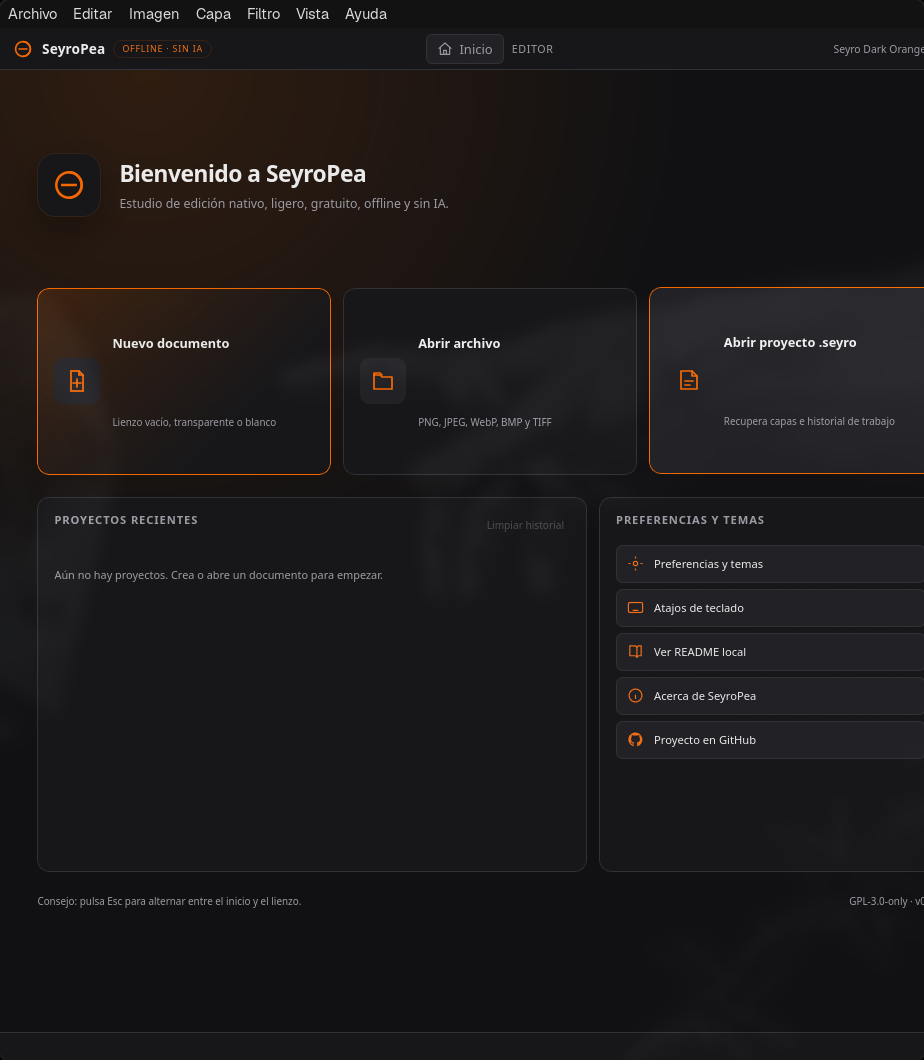
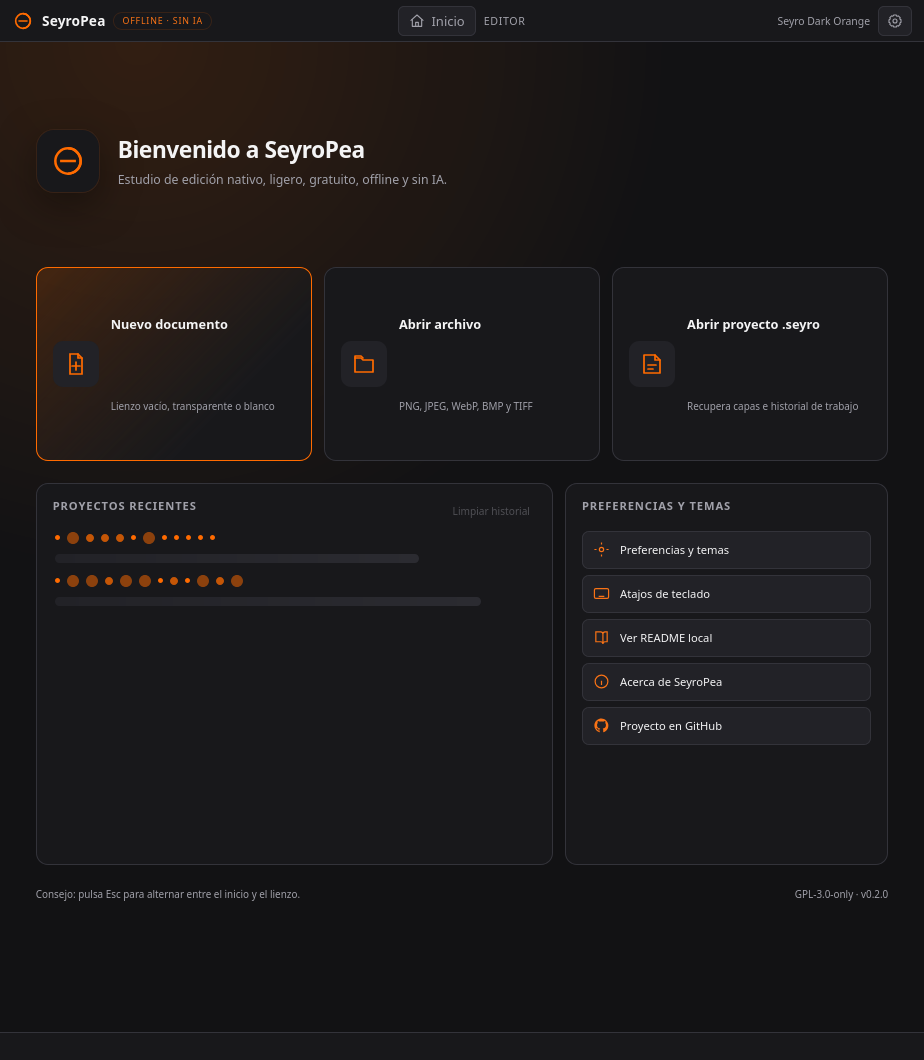
docs(site): publicar landing page y actualizar capturas v0.2.0
Añade sitio estático en docs/ para GitHub Pages con descargas, características y capturas nuevas del editor y welcome; README enlaza la web y el release.

diff --git a/docs/index.html b/docs/index.html
@@ -1,0 +1,256 @@
+<!doctype html>
+<html lang="es">
+<head>
+  <meta charset="utf-8">
+  <meta name="viewport" content="width=device-width, initial-scale=1">
+  <title>SeyroPea — Editor de imágenes nativo, ligero, gratuito y offline</title>
+  <meta name="description" content="SeyroPea v0.2.0: estudio de edición de imágenes de escritorio con Tauri v2 y Canvas2D. Capas, filtros deterministas, temas, formato .seyro y 100% offline, sin IA generativa.">
+  <meta name="theme-color" content="#16161a">
+  <meta property="og:title" content="SeyroPea v0.2.0">
+  <meta property="og:description" content="Editor de imágenes de escritorio nativo, ligero, gratuito, offline y sin IA.">
+  <meta property="og:image" content="screenshots/01-editor-principal.png">
+  <style>
+    :root {
+      --bg: #101013;
+      --surface: #17171c;
+      --surface-alt: #1e1e24;
+      --border: #2c2c34;
+      --text: #f5f1ea;
+      --muted: #a9a5a0;
+      --accent: #ff8a1f;
+      --accent-strong: #f97316;
+      --leaf: #7bc86c;
+      --radius: 14px;
+      --shadow: 0 18px 50px rgba(0, 0, 0, .35);
+    }
+    *, *::before, *::after { box-sizing: border-box; }
+    html { scroll-behavior: smooth; }
+    body {
+      margin: 0;
+      background: var(--bg);
+      color: var(--text);
+      font-family: system-ui, -apple-system, "Segoe UI", Roboto, sans-serif;
+      line-height: 1.6;
+      -webkit-font-smoothing: antialiased;
+    }
+    a { color: var(--accent); text-decoration: none; }
+    a:hover { text-decoration: underline; }
+    img { max-width: 100%; height: auto; display: block; }
+    .wrap { width: min(1120px, calc(100% - 40px)); margin: 0 auto; }
+    .site-header {
+      position: sticky; top: 0; z-index: 10;
+      background: rgba(16, 16, 19, .92);
+      backdrop-filter: blur(12px);
+      border-bottom: 1px solid var(--border);
+    }
+    .site-header .wrap { display: flex; align-items: center; justify-content: space-between; gap: 20px; min-height: 68px; }
+    .brand { display: flex; align-items: center; gap: 10px; color: var(--text); font-weight: 700; letter-spacing: .02em; }
+    .brand:hover { text-decoration: none; }
+    .brand svg { width: 34px; height: 34px; border-radius: 9px; }
+    .nav { display: flex; align-items: center; gap: 22px; flex-wrap: wrap; }
+    .nav a { color: var(--muted); font-size: .94rem; }
+    .nav a:hover { color: var(--text); text-decoration: none; }
+    .nav .cta-nav {
+      padding: 8px 15px; border-radius: 999px; background: var(--accent); color: #1a1207;
+      font-weight: 700; border: 1px solid var(--accent-strong);
+    }
+    .nav .cta-nav:hover { background: #ffa348; color: #1a1207; text-decoration: none; }
+    .hero { padding: 88px 0 56px; text-align: center; }
+    .eyebrow {
+      display: inline-block; padding: 6px 13px; border-radius: 999px;
+      border: 1px solid var(--border); background: var(--surface);
+      color: var(--muted); font-size: .82rem; letter-spacing: .08em; text-transform: uppercase;
+    }
+    .hero h1 {
+      margin: 20px 0 12px; font-size: clamp(2.4rem, 6vw, 4.2rem); line-height: 1.08;
+      letter-spacing: -.04em;
+    }
+    .hero h1 span { color: var(--accent); }
+    .hero p.lead { max-width: 720px; margin: 0 auto; color: var(--muted); font-size: 1.12rem; }
+    .badges { display: flex; flex-wrap: wrap; justify-content: center; gap: 9px; margin: 26px 0 30px; }
+    .badge {
+      padding: 5px 11px; border-radius: 7px; border: 1px solid var(--border);
+      background: var(--surface-alt); color: var(--muted); font-size: .8rem; font-weight: 600;
+    }
+    .badge.green { color: var(--leaf); border-color: #35523a; }
+    .actions { display: flex; flex-wrap: wrap; justify-content: center; gap: 12px; }
+    .button {
+      display: inline-flex; align-items: center; justify-content: center; gap: 8px;
+      padding: 12px 21px; border-radius: 10px; border: 1px solid var(--border);
+      background: var(--surface-alt); color: var(--text); font-weight: 650; font-size: .95rem;
+    }
+    .button:hover { text-decoration: none; border-color: var(--accent); }
+    .button.primary { background: var(--accent); color: #1a1207; border-color: var(--accent-strong); }
+    .button.primary:hover { background: #ffa348; color: #1a1207; }
+    section { padding: 54px 0; }
+    section + section { border-top: 1px solid var(--border); }
+    h2 { margin: 0 0 10px; font-size: clamp(1.6rem, 3vw, 2.2rem); letter-spacing: -.025em; }
+    .section-intro { margin: 0 0 28px; color: var(--muted); max-width: 720px; }
+    .grid { display: grid; gap: 16px; }
+    .features { grid-template-columns: repeat(auto-fit, minmax(240px, 1fr)); }
+    .card {
+      padding: 22px; border: 1px solid var(--border); border-radius: var(--radius);
+      background: var(--surface); box-shadow: 0 8px 24px rgba(0, 0, 0, .12);
+    }
+    .card h3 { margin: 0 0 6px; font-size: 1.04rem; }
+    .card p { margin: 0; color: var(--muted); font-size: .93rem; }
+    .card .icon { font-size: 1.4rem; color: var(--accent); line-height: 1; }
+    .shots { display: grid; grid-template-columns: repeat(auto-fit, minmax(280px, 1fr)); gap: 20px; align-items: start; }
+    figure { margin: 0; }
+    figure .frame {
+      border: 1px solid var(--border); border-radius: var(--radius); overflow: hidden;
+      background: var(--surface); box-shadow: var(--shadow);
+    }
+    figure img { width: 100%; }
+    figcaption { margin-top: 10px; color: var(--muted); font-size: .9rem; text-align: center; }
+    .split { display: grid; grid-template-columns: repeat(auto-fit, minmax(280px, 1fr)); gap: 22px; }
+    .list { margin: 14px 0 0; padding-left: 20px; color: var(--muted); }
+    .list li + li { margin-top: 7px; }
+    code {
+      background: var(--surface-alt); border: 1px solid var(--border);
+      border-radius: 5px; padding: 1px 6px; font-size: .88em;
+    }
+    .platforms { grid-template-columns: repeat(auto-fit, minmax(210px, 1fr)); }
+    .platform strong { display: block; margin-bottom: 4px; }
+    .platform span { color: var(--muted); font-size: .9rem; }
+    footer {
+      border-top: 1px solid var(--border); padding: 28px 0 40px;
+      color: var(--muted); font-size: .88rem;
+    }
+    footer .wrap { display: flex; flex-wrap: wrap; justify-content: space-between; gap: 14px; }
+    @media (max-width: 640px) {
+      .site-header .wrap { flex-direction: column; align-items: flex-start; padding: 12px 0; }
+      .nav { gap: 14px; }
+      .hero { padding-top: 54px; }
+    }
+  </style>
+</head>
+<body>
+  <header class="site-header">
+    <div class="wrap">
+      <a class="brand" href="#top" aria-label="SeyroPea, ir al inicio">
+        <svg xmlns="http://www.w3.org/2000/svg" viewBox="0 0 1024 1024" aria-hidden="true">
+          <defs>
+            <linearGradient id="lg-bg" x1="0" y1="0" x2="1" y2="1"><stop offset="0" stop-color="#222227"/><stop offset="1" stop-color="#121214"/></linearGradient>
+            <linearGradient id="lg-accent" x1="0" y1="0" x2="1" y2="1"><stop offset="0" stop-color="#ff8a1f"/><stop offset="1" stop-color="#f97316"/></linearGradient>
+            <linearGradient id="lg-leaf" x1="0" y1="1" x2="1" y2="0"><stop offset="0" stop-color="#3f9142"/><stop offset="1" stop-color="#7bc86c"/></linearGradient>
+          </defs>
+          <rect x="24" y="24" width="976" height="976" rx="216" fill="url(#lg-bg)"/>
+          <path d="M726 290c-42-52-108-78-190-78-126 0-209 62-209 154 0 76 55 118 176 143 104 21 127 40 127 74 0 43-45 68-118 68-77 0-139-28-184-79l-91 87c62 74 154 115 271 115 139 0 228-65 228-169 0-84-58-125-185-151-110-23-132-37-132-67 0-35 38-55 99-55 58 0 105 20 141 57z" fill="url(#lg-accent)"/>
+          <circle cx="764" cy="246" r="40" fill="url(#lg-leaf)"/>
+        </svg>
+        SeyroPea
+      </a>
+      <nav class="nav" aria-label="Navegación principal">
+        <a href="#caracteristicas">Características</a>
+        <a href="#capturas">Capturas</a>
+        <a href="#descargas">Descargas</a>
+        <a href="https://github.com/vDaiki-dev/seyropea">GitHub</a>
+        <a class="cta-nav" href="https://github.com/vDaiki-dev/seyropea/releases/tag/v0.2.0">Descargar v0.2.0</a>
+      </nav>
+    </div>
+  </header>
+
+  <main id="top">
+    <div class="wrap">
+      <div class="hero">
+        <span class="eyebrow">Lanzamiento v0.2.0 · 25 de noviembre de 2026</span>
+        <h1>Edita imágenes <span>sin depender de nadie.</span></h1>
+        <p class="lead">SeyroPea es un estudio de edición de imágenes de escritorio: nativo, ligero, gratuito y 100% offline. Construido con Tauri v2 y Canvas2D puro, sin frameworks en runtime ni modelos generativos.</p>
+        <div class="badges">
+          <span class="badge">Tauri v2 + Rust</span>
+          <span class="badge">Canvas2D</span>
+          <span class="badge green">100% offline</span>
+          <span class="badge green">Sin IA generativa</span>
+          <span class="badge">GPL-3.0-only</span>
+          <span class="badge">Linux · Windows · macOS</span>
+        </div>
+        <div class="actions">
+          <a class="button primary" href="https://github.com/vDaiki-dev/seyropea/releases/tag/v0.2.0">Descargar v0.2.0</a>
+          <a class="button" href="https://github.com/vDaiki-dev/seyropea">Ver código en GitHub</a>
+          <a class="button" href="https://github.com/vDaiki-dev/seyropea/blob/main/README.md">Leer documentación</a>
+        </div>
+      </div>
+    </div>
+
+    <section id="caracteristicas">
+      <div class="wrap">
+        <h2>Un editor completo, sin peso innecesario</h2>
+        <p class="section-intro">Todo el procesamiento es algorítmico y determinista sobre buffers RGBA. Sin cuentas, sin telemetría, sin CDNs y sin fuentes remotas.</p>
+        <div class="grid features">
+          <article class="card"><div class="icon">▣</div><h3>Capas y composición</h3><p>15 modos de fusión, opacidad, visibilidad, bloqueo, duplicado y reordenación con historial reversible.</p></article>
+          <article class="card"><div class="icon">◇</div><h3>14 herramientas</h3><p>Mover, transformar, marco, lazo, varita, recorte, cuentagotas, pincel, borrador, cubeta, texto, formas, mano y zoom.</p></article>
+          <article class="card"><div class="icon">◈</div><h3>Cubeta inteligente</h3><p>Relleno contiguo con tolerancia, capa activa o capas visibles y Undo/Redo integrados (atajo <code>G</code>).</p></article>
+          <article class="card"><div class="icon">◐</div><h3>Filtros deterministas</h3><p>18 filtros y ajustes tonales con vista previa y comparación antes de aplicar.</p></article>
+          <article class="card"><div class="icon">◧</div><h3>Formato <code>.seyro</code></h3><p>Manifiesto JSON y capas RGBA8 comprimidas con DEFLATE, con validación y límites estrictos.</p></article>
+          <article class="card"><div class="icon">◍</div><h3>Temas e idiomas</h3><p>Seyro Dark Orange, Dracula y Tokyo Night, wallpaper → paleta, 10 idiomas persistentes y fuentes del sistema.</p></article>
+          <article class="card"><div class="icon">◉</div><h3>Componentes reutilizables</h3><p><code>Toast</code>, <code>Modal</code>, <code>Tooltip</code>, <code>Badge</code> y un <code>SkeletonLoader</code> theme-aware inspirado en DIVAE.</p></article>
+          <article class="card"><div class="icon">◈</div><h3>Frontera endurecida</h3><p>Rutas e IDs validados, texto escapado, límites de descompresión, CSP estricto y permisos Tauri mínimos.</p></article>
+        </div>
+      </div>
+    </section>
+
+    <section id="capturas">
+      <div class="wrap">
+        <h2>Así se ve SeyroPea v0.2.0</h2>
+        <p class="section-intro">Interfaz pulida con un solo tablero de pestañas, ajedrezado nítido, paneles sin solapes y pantalla de inicio con recientes locales.</p>
+        <div class="shots">
+          <figure>
+            <div class="frame"><img src="screenshots/01-editor-principal.png" alt="Editor principal de SeyroPea v0.2.0 con capas, filtros y lienzo ajedrezado"></div>
+            <figcaption>Editor principal — herramientas, opciones, capas e historial.</figcaption>
+          </figure>
+          <figure>
+            <div class="frame"><img src="screenshots/02-pantalla-inicio.png" alt="Pantalla de inicio de SeyroPea v0.2.0 con proyectos recientes y preferencias"></div>
+            <figcaption>Pantalla de inicio — Nuevo, Abrir, recientes, ajustes y About.</figcaption>
+          </figure>
+        </div>
+      </div>
+    </section>
+
+    <section id="seguridad">
+      <div class="wrap split">
+        <div>
+          <h2>Offline por diseño</h2>
+          <p class="section-intro">La aplicación se ejecuta con recursos incluidos en el binario. La única salida a red es una comprobación opcional de actualizaciones que falla en silencio.</p>
+          <ul class="list">
+            <li>Sin telemetría, cuentas ni servicios en la nube.</li>
+            <li>Sin CDN, fuentes o iconos remotos en runtime.</li>
+            <li>Diálogos nativos y archivos guardados solo en local.</li>
+            <li>Exportación PNG/JPEG/WebP/BMP con UPNG.js + pako vendorizados bajo MIT.</li>
+          </ul>
+        </div>
+        <div>
+          <h2>Seguridad y estabilidad</h2>
+          <p class="section-intro">La frontera entre Rust y JavaScript valida todo dato no confiable antes de usarlo.</p>
+          <ul class="list">
+            <li>Escapado de nombres de capas, temas, metadatos y README local.</li>
+            <li>Rutas absolutas normalizadas, sin traversal, con extensión comprobada.</li>
+            <li>Apertura de URLs con host permitido y sin shell.</li>
+            <li>Archivos corruptos o sobredimensionados fallan con avisos breves, sin crashes.</li>
+          </ul>
+        </div>
+      </div>
+    </section>
+
+    <section id="descargas">
+      <div class="wrap">
+        <h2>Descarga SeyroPea v0.2.0</h2>
+        <p class="section-intro">Paquetes firmados por el workflow de Release con sumas <code>SHA256SUMS.txt</code>. También puedes compilar desde el código fuente con Cargo y Tauri CLI.</p>
+        <div class="grid platforms">
+          <div class="card platform"><strong>Linux</strong><span>AppImage y .deb de 64 bits</span><p><a href="https://github.com/vDaiki-dev/seyropea/releases/download/v0.2.0/SeyroPea_0.2.0_amd64.AppImage">AppImage</a> · <a href="https://github.com/vDaiki-dev/seyropea/releases/download/v0.2.0/SeyroPea_0.2.0_amd64.deb">DEB</a></p></div>
+          <div class="card platform"><strong>Windows</strong><span>Instalador MSI y EXE NSIS</span><p><a href="https://github.com/vDaiki-dev/seyropea/releases/download/v0.2.0/SeyroPea_0.2.0_x64_es-ES.msi">MSI</a> · <a href="https://github.com/vDaiki-dev/seyropea/releases/download/v0.2.0/SeyroPea_0.2.0_x64-setup.exe">EXE</a></p></div>
+          <div class="card platform"><strong>macOS</strong><span>DMG y archivo .app comprimido</span><p><a href="https://github.com/vDaiki-dev/seyropea/releases/download/v0.2.0/SeyroPea_0.2.0_aarch64.dmg">DMG</a> · <a href="https://github.com/vDaiki-dev/seyropea/releases/download/v0.2.0/SeyroPea.app.tar.gz">APP</a></p></div>
+        </div>
+        <p style="margin-top:22px"><a class="button primary" href="https://github.com/vDaiki-dev/seyropea/releases/tag/v0.2.0">Ver release completa y sumas SHA256</a></p>
+      </div>
+    </section>
+  </main>
+
+  <footer>
+    <div class="wrap">
+      <span>SeyroPea v0.2.0 · GPL-3.0-only · © 2026 vDaiki-dev</span>
+      <span><a href="https://github.com/vDaiki-dev/seyropea">Repositorio</a> · <a href="https://github.com/vDaiki-dev/seyropea/releases">Releases</a> · <a href="https://github.com/vDaiki-dev/seyropea/blob/main/CHANGELOG.md">Changelog</a></span>
+    </div>
+  </footer>
+</body>
+</html>

diff --git a/README.md b/README.md
@@ -6,6 +6,8 @@ SeyroPea v0.2.0 es una aplicación de escritorio real construida con **Tauri v2*
 
 > Sin cuentas, sin telemetría, sin CDNs, sin modelos generativos. La edición es 100% algorítmica y determinista sobre buffers RGBA.
 
+**Sitio web:** [vdaiki-dev.github.io/seyropea](https://vdaiki-dev.github.io/seyropea/) · **Release actual:** [v0.2.0](https://github.com/vDaiki-dev/seyropea/releases/tag/v0.2.0)
+
 ---
 
 ## Capturas

diff --git a/src/frontend/assets/README.md b/src/frontend/assets/README.md
@@ -6,6 +6,8 @@ SeyroPea v0.2.0 es una aplicación de escritorio real construida con **Tauri v2*
 
 > Sin cuentas, sin telemetría, sin CDNs, sin modelos generativos. La edición es 100% algorítmica y determinista sobre buffers RGBA.
 
+**Sitio web:** [vdaiki-dev.github.io/seyropea](https://vdaiki-dev.github.io/seyropea/) · **Release actual:** [v0.2.0](https://github.com/vDaiki-dev/seyropea/releases/tag/v0.2.0)
+
 ---
 
 ## Capturas
